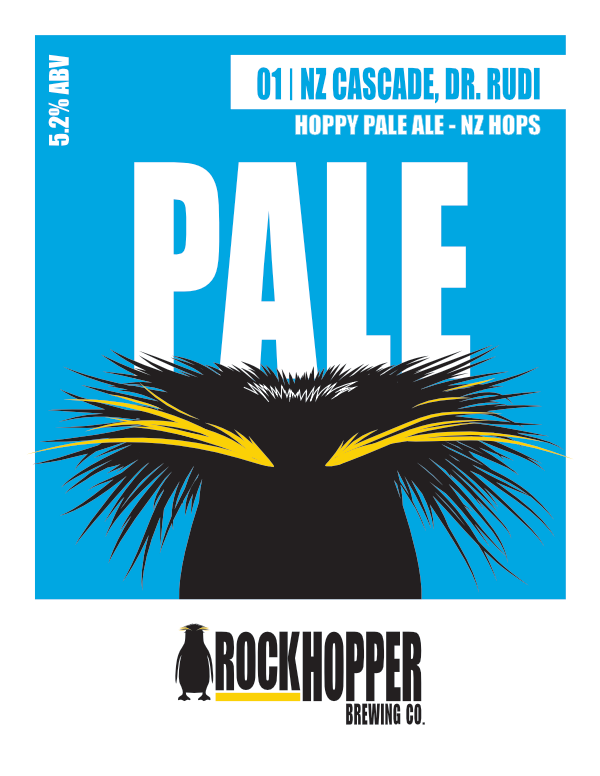
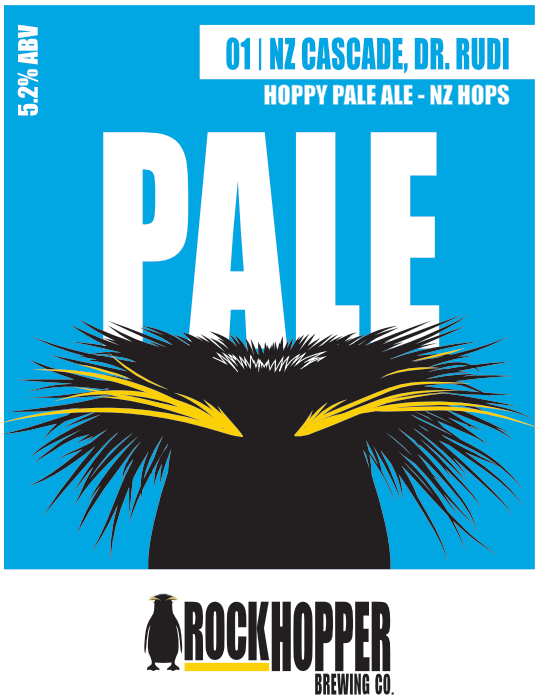
Update images…

diff --git a/_posts/2016-08-25-pale-01-nz-cascade-and-dr-rudi.md b/_posts/2016-08-25-pale-01-nz-cascade-and-dr-rudi.md
@@ -5,7 +5,7 @@ date: 2016-08-25 08:00:38 +0100
 excerpt: "Our first brew is ready!  The first out of the gate is a modern style pale ale made with New Zealand hops.  It's been a long time coming, but we hope you'll think it's been worth the wait!"
 ---
 
-{% img 'beers/pale-01.png' class:'img-responsive center-block beer-pump-label' alt:'PALE | 01' %}
+{% img 'beers/pale-01.png' class:'img-responsive center-block max-height-300' alt:'PALE | 01' %}
 
 Our first brew is ready!  The first out of the gate is a modern style
 pale ale made with New Zealand hops.  It's been a long time coming, but we
